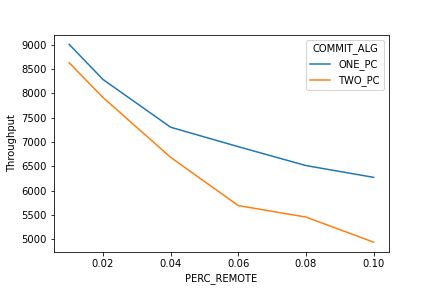
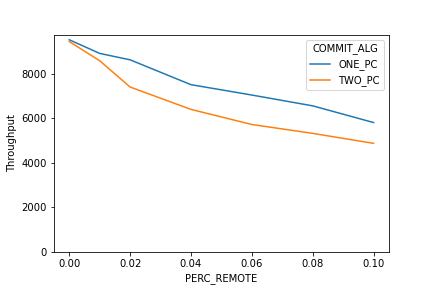
int debug3 as num_local

diff --git a/system/query.h b/system/query.h
@@ -28,6 +28,7 @@ public:
     Isolation     get_isolation_level() { return _isolation_level; }
     virtual bool        is_all_remote_readonly() { return false; }
     virtual bool        is_all_local_readonly() { return false; }
+    virtual bool        is_local() { return false; }
 #if CC_ALG == WAIT_DIE || CC_ALG == F_ONE || (CC_ALG == TICTOC && OCC_LOCK_TYPE == WAIT_DIE)
     uint64_t     get_ts() { return _txn_ts; }
     void         set_ts(uint64_t txn_ts) { _txn_ts = txn_ts; }

diff --git a/benchmarks/ycsb_query.h b/benchmarks/ycsb_query.h
@@ -29,6 +29,7 @@ public:
     void gen_requests();
     bool is_all_remote_readonly() { return _is_all_remote_readonly; }
     bool is_all_local_readonly() { return _is_all_local_readonly; }
+    bool is_local() { return _is_local; }
 
 private:
     uint32_t _request_cnt;
@@ -42,4 +43,5 @@ private:
     static double zeta_2_theta;
     bool _is_all_remote_readonly;
     bool _is_all_local_readonly;
+    bool _is_local;
 };

diff --git a/system/txn.cpp b/system/txn.cpp
@@ -200,6 +200,9 @@ TxnManager::update_stats()
 
     if ( _txn_state == COMMITTED ) {
         INC_INT_STATS(num_commits, 1);
+        if (_store_procedure->get_query()->is_local()) {
+            INC_INT_STATS(int_debug3, 1);
+        }
         // change from finish time to commit end time
         uint64_t latency = _commit_end_time - _txn_start_time;
         INC_FLOAT_STATS(txn_latency, latency);

diff --git a/benchmarks/ycsb_query.cpp b/benchmarks/ycsb_query.cpp
@@ -154,8 +154,10 @@ void QueryYCSB::gen_requests() {
     }
     if (!has_remote) {
         _is_all_remote_readonly = false;
+        _is_local = true;
         INC_INT_STATS(num_local_txn, 1);
     } else {
+        _is_local = false;
         if (_is_all_remote_readonly) {
             INC_INT_STATS(num_remote_readonly_txn, 1);
         } else {
